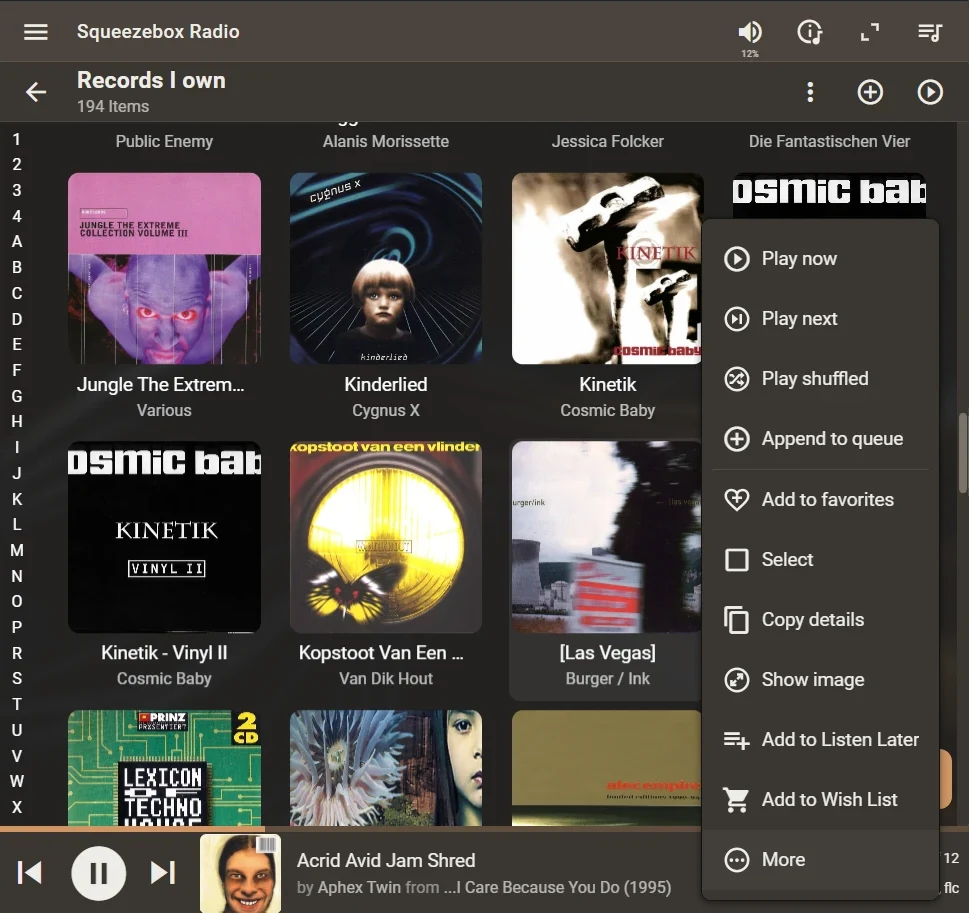
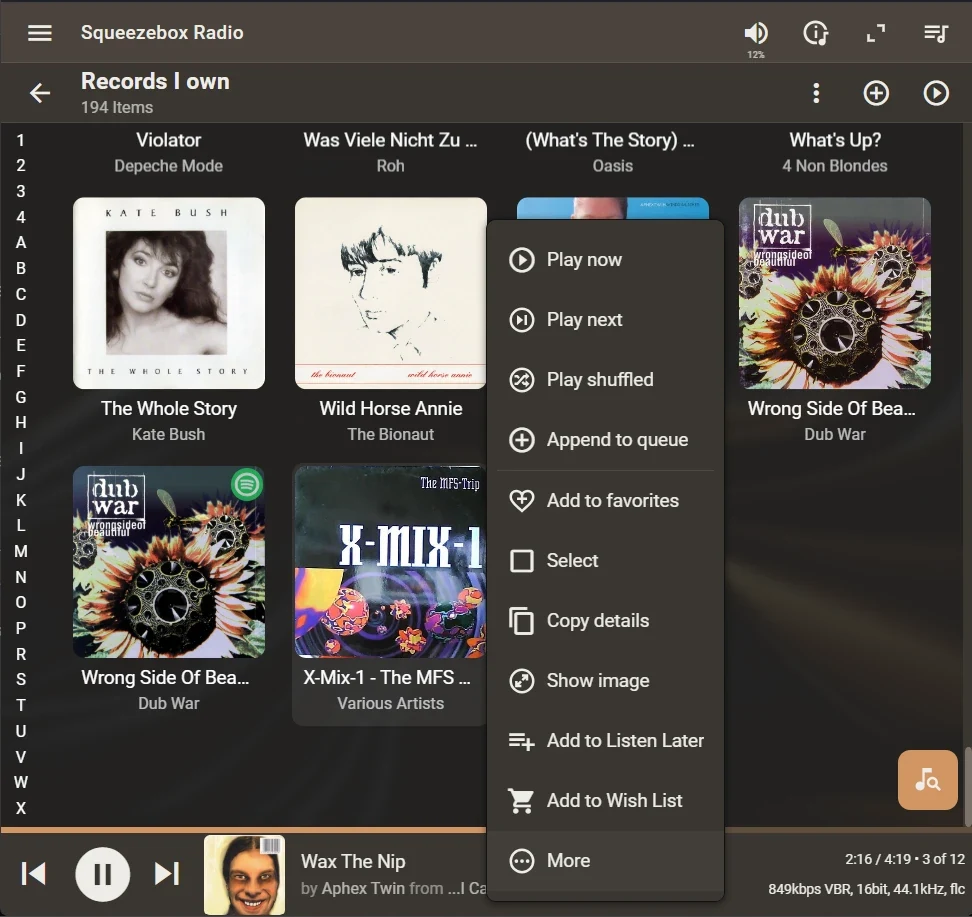
Use the X-Mix-1 album's own Material panels in the worked example
Three of the four Material panels showed another album. They are replaced
with the owner's screenshots of X-Mix-1 - The MFS Trip itself: the Records
I own view, its album menu, and its pressing details. The My Music panel
does not depend on the album and stays. The note that the panels showed
another album is removed, and captions and alt text now name the record.

Claude-Session: https://claude.ai/code/session_01YAGbrnTLVvyiwvGe2wKgnr

diff --git a/worked-example.html b/worked-example.html
@@ -94,22 +94,22 @@ a{color:#B53B0A}a:hover{color:#16161A}
 </div>
 
 <div style="display: flex; flex-direction: column; gap: 16px">
-<p style="margin: 0; font-size: 15px; color: #4A4A52">What it looks like in the Material skin, shown with another album from the same library. Click a picture to enlarge it.</p>
+<p style="margin: 0; font-size: 15px; color: #4A4A52">What it looks like in the Material skin. Click a picture to enlarge it.</p>
 <div style="display: flex; flex-wrap: wrap; gap: 20px">
 <figure style="margin: 0; flex: 1 1 420px; min-width: 0; display: flex; flex-direction: column; gap: 8px">
 <a href="assets/worked-example/03-my-music.webp" style="display: block; border: 1px solid #E3E2DD; border-radius: 14px; overflow: hidden; line-height: 0"><img src="assets/worked-example/03-my-music.webp" width="970" height="913" alt="My Music in the Material skin, with a Records I own entry showing the shelf icon" loading="lazy" style="width: 100%; height: auto; display: block"></a>
 <figcaption style="font-size: 14px; color: #6A6A72">“Records I own” in My Music.</figcaption>
 </figure>
 <figure style="margin: 0; flex: 1 1 420px; min-width: 0; display: flex; flex-direction: column; gap: 8px">
-<a href="assets/worked-example/04-records-i-own.webp" style="display: block; border: 1px solid #E3E2DD; border-radius: 14px; overflow: hidden; line-height: 0"><img src="assets/worked-example/04-records-i-own.webp" width="969" height="913" alt="The Records I own view: an album grid of 194 owned albums, with an album’s context menu open" loading="lazy" style="width: 100%; height: auto; display: block"></a>
-<figcaption style="font-size: 14px; color: #6A6A72">The view itself: only the albums you own.</figcaption>
+<a href="assets/worked-example/04-records-i-own.webp" style="display: block; border: 1px solid #E3E2DD; border-radius: 14px; overflow: hidden; line-height: 0"><img src="assets/worked-example/04-records-i-own.webp" width="972" height="917" alt="The Records I own view: an album grid of 194 owned albums, including X-Mix-1 - The MFS Trip by Various Artists" loading="lazy" style="width: 100%; height: auto; display: block"></a>
+<figcaption style="font-size: 14px; color: #6A6A72">The view itself: only the albums you own, X-Mix-1 among them.</figcaption>
 </figure>
 <figure style="margin: 0; flex: 1 1 420px; min-width: 0; display: flex; flex-direction: column; gap: 8px">
-<a href="assets/worked-example/05-album-menu.webp" style="display: block; border: 1px solid #E3E2DD; border-radius: 14px; overflow: hidden; line-height: 0"><img src="assets/worked-example/05-album-menu.webp" width="970" height="911" alt="The menu of an owned album, listing Discogs: Browse your pressing, Show your pressing’s details, Browse all versions and Show master details" loading="lazy" style="width: 100%; height: auto; display: block"></a>
-<figcaption style="font-size: 14px; color: #6A6A72">An owned album’s menu with its four Discogs entries.</figcaption>
+<a href="assets/worked-example/05-album-menu.webp" style="display: block; border: 1px solid #E3E2DD; border-radius: 14px; overflow: hidden; line-height: 0"><img src="assets/worked-example/05-album-menu.webp" width="976" height="917" alt="The menu of X-Mix-1 - The MFS Trip, listing Discogs: Browse your pressing, Show your pressing’s details, Browse all versions and Show master details" loading="lazy" style="width: 100%; height: auto; display: block"></a>
+<figcaption style="font-size: 14px; color: #6A6A72">The album’s menu with its four Discogs entries.</figcaption>
 </figure>
 <figure style="margin: 0; flex: 1 1 420px; min-width: 0; display: flex; flex-direction: column; gap: 8px">
-<a href="assets/worked-example/06-pressing-details.webp" style="display: block; border: 1px solid #E3E2DD; border-radius: 14px; overflow: hidden; line-height: 0"><img src="assets/worked-example/06-pressing-details.webp" width="969" height="911" alt="The pressing details submenu: label and catalogue number, format, country and date, genre and styles, have and want, rating, copies for sale, and Data provided by Discogs" loading="lazy" style="width: 100%; height: auto; display: block"></a>
+<a href="assets/worked-example/06-pressing-details.webp" style="display: block; border: 1px solid #E3E2DD; border-radius: 14px; overflow: hidden; line-height: 0"><img src="assets/worked-example/06-pressing-details.webp" width="972" height="916" alt="The pressing details for X-Mix-1: MFS, MFS 7045-1; Vinyl, LP, Mixed, Germany, Aug 1993; Electronic, Trance; have and want counts, rating, copies for sale, and Data provided by Discogs" loading="lazy" style="width: 100%; height: auto; display: block"></a>
 <figcaption style="font-size: 14px; color: #6A6A72">Its pressing details, fetched when the submenu opens.</figcaption>
 </figure>
 </div>

diff --git a/TODO.md b/TODO.md
@@ -3211,8 +3211,8 @@ Each names its sites so the work is mechanical rather than a search.
       read), so a `repo.xml` bump updates the site. "tested on 9.1.1" is not in
       `repo.xml` and stays hand-written, in step with the README;
       (2) ~~screenshot placeholders~~ — done 2026-10-16: owner's Audacity,
-      foobar2000 and Material screenshots in `assets/worked-example/` (the
-      Material panels show a different album than the example, and say so);
+      foobar2000 and Material screenshots of the X-Mix-1 example in
+      `assets/worked-example/`;
       (3) `assets/owned.svg` is a recoloured copy of the plugin's
       `owned.svg` (`_config.yml` keeps `SqueezeWax/` out of the site) — keep the
       two in step; (4) merge `site` into `master` to publish; `repo.xml` and
